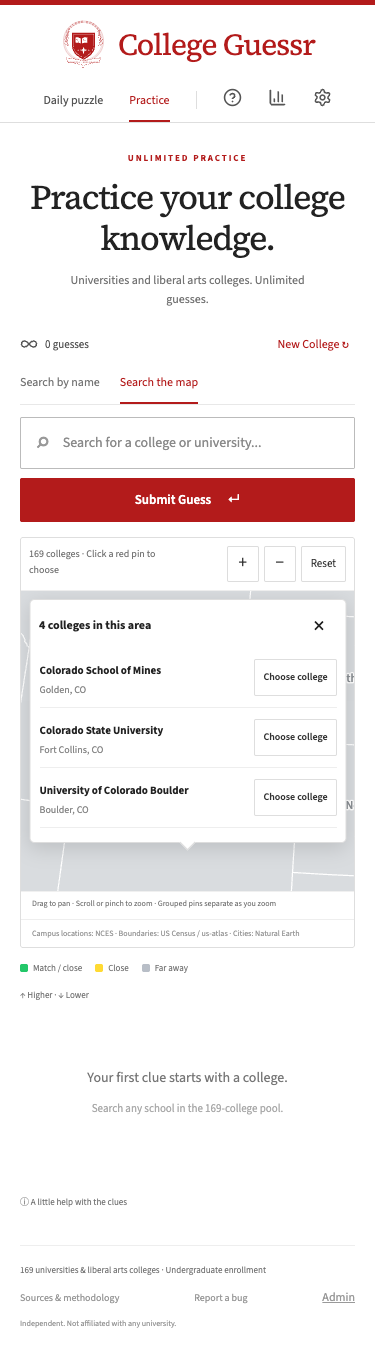
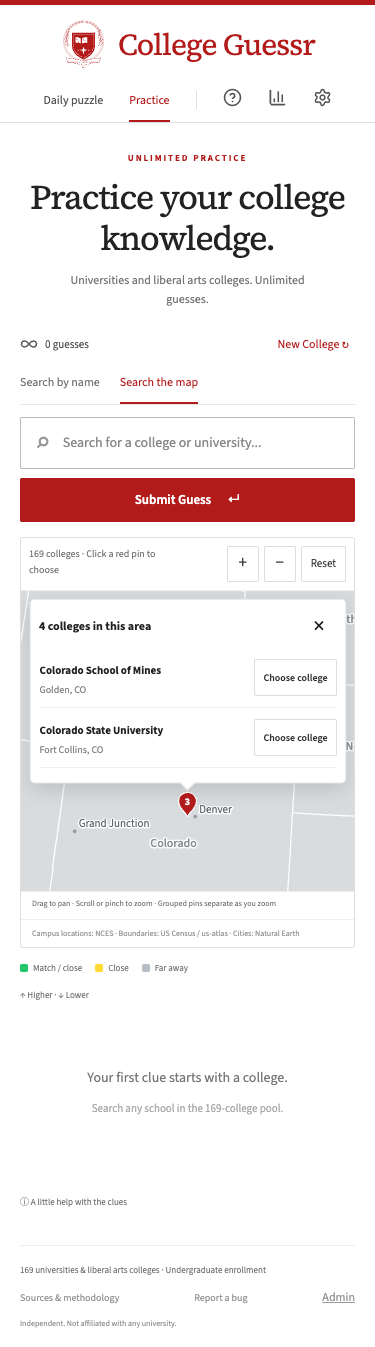
Keep popup anchors visible in mobile map viewports

Changed region(s): [[0.0587, 0.4989, 0.9387, 0.6548], [0.1467, 0.4365, 0.2347, 0.4677], [0.9093, 0.4989, 0.9387, 0.5301]]

diff --git a/src/components/CollegeMap.tsx b/src/components/CollegeMap.tsx
@@ -248,6 +248,8 @@ export default function CollegeMap({
     anchor.x <= bounds.width &&
     anchor.y >= 0 &&
     anchor.y <= (svg.current?.clientHeight ?? bounds.height);
+  const mapBottom =
+    matrix && bounds ? matrix.f - bounds.top + H * matrix.d : 300;
   useLayoutEffect(() => {
     if (
       !active.length ||
@@ -259,7 +261,7 @@ export default function CollegeMap({
       return;
     panForPopup.current = false;
     const minimumY = popup.current.getBoundingClientRect().height + 40;
-    const maximumY = (svg.current?.clientHeight ?? 300) - 12;
+    const maximumY = mapBottom - 12;
     const shiftY = Math.max(minimumY, Math.min(maximumY, anchor.y)) - anchor.y;
     const shiftX = bounds
       ? Math.max(24, Math.min(bounds.width - 24, anchor.x)) - anchor.x
@@ -469,10 +471,7 @@ export default function CollegeMap({
             <div
               className="map-selection-list"
               style={{
-                maxHeight: Math.min(
-                  210,
-                  (svg.current?.clientHeight ?? 300) - 115,
-                ),
+                maxHeight: Math.min(210, mapBottom - 120),
               }}
             >
               {activeSchools.map((c) => (

diff --git a/e2e/app.spec.ts b/e2e/app.spec.ts
@@ -251,6 +251,26 @@ test("map search zooms, shows city labels and chooses a real school", async ({
   expect(popupBounds!.y + popupBounds!.height).toBeLessThan(
     canvasBounds!.y + anchorY,
   );
+  expect(
+    await popup.evaluate((el) => {
+      const card = el as HTMLElement,
+        canvas = card.closest(".map-canvas")!;
+      const bounds = canvas.getBoundingClientRect();
+      const x =
+        bounds.left +
+        parseFloat(card.style.left) +
+        parseFloat(card.style.getPropertyValue("--pin-offset"));
+      const y = bounds.top + parseFloat(card.style.top) + 32;
+      return [...canvas.querySelectorAll<SVGGElement>(".map-pin")].some(
+        (pin) => {
+          const matrix = pin.getScreenCTM();
+          if (!matrix) return false;
+          const p = new DOMPoint(0, 0).matrixTransform(matrix);
+          return Math.hypot(p.x - x, p.y - y) < 2;
+        },
+      );
+    }),
+  ).toBeTruthy();
   await page.screenshot({
     path: `screenshots/map-popup-${test.info().project.name}.png`,
     fullPage: true,
